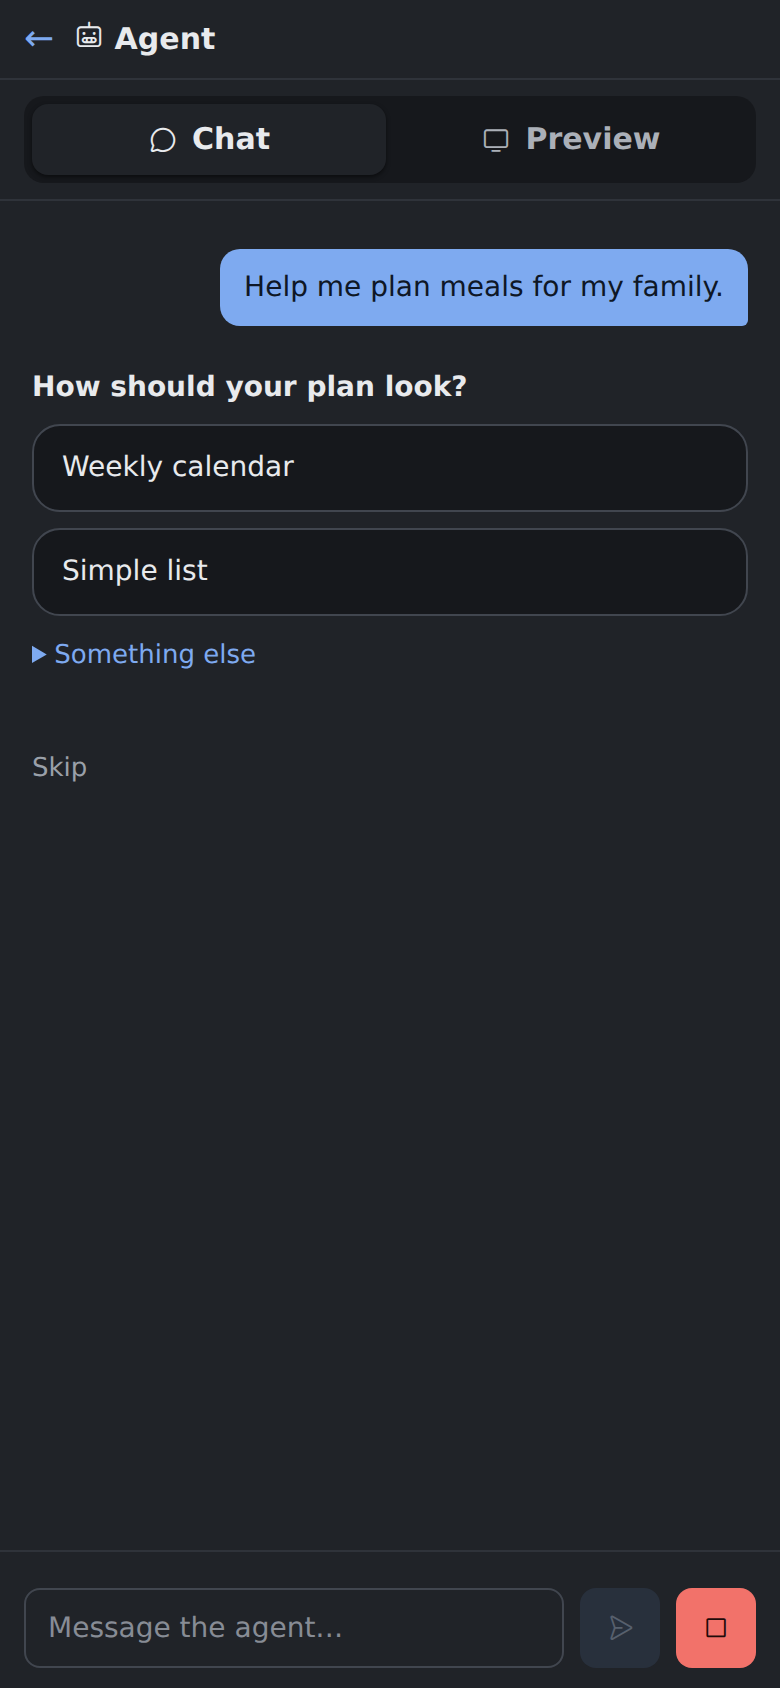
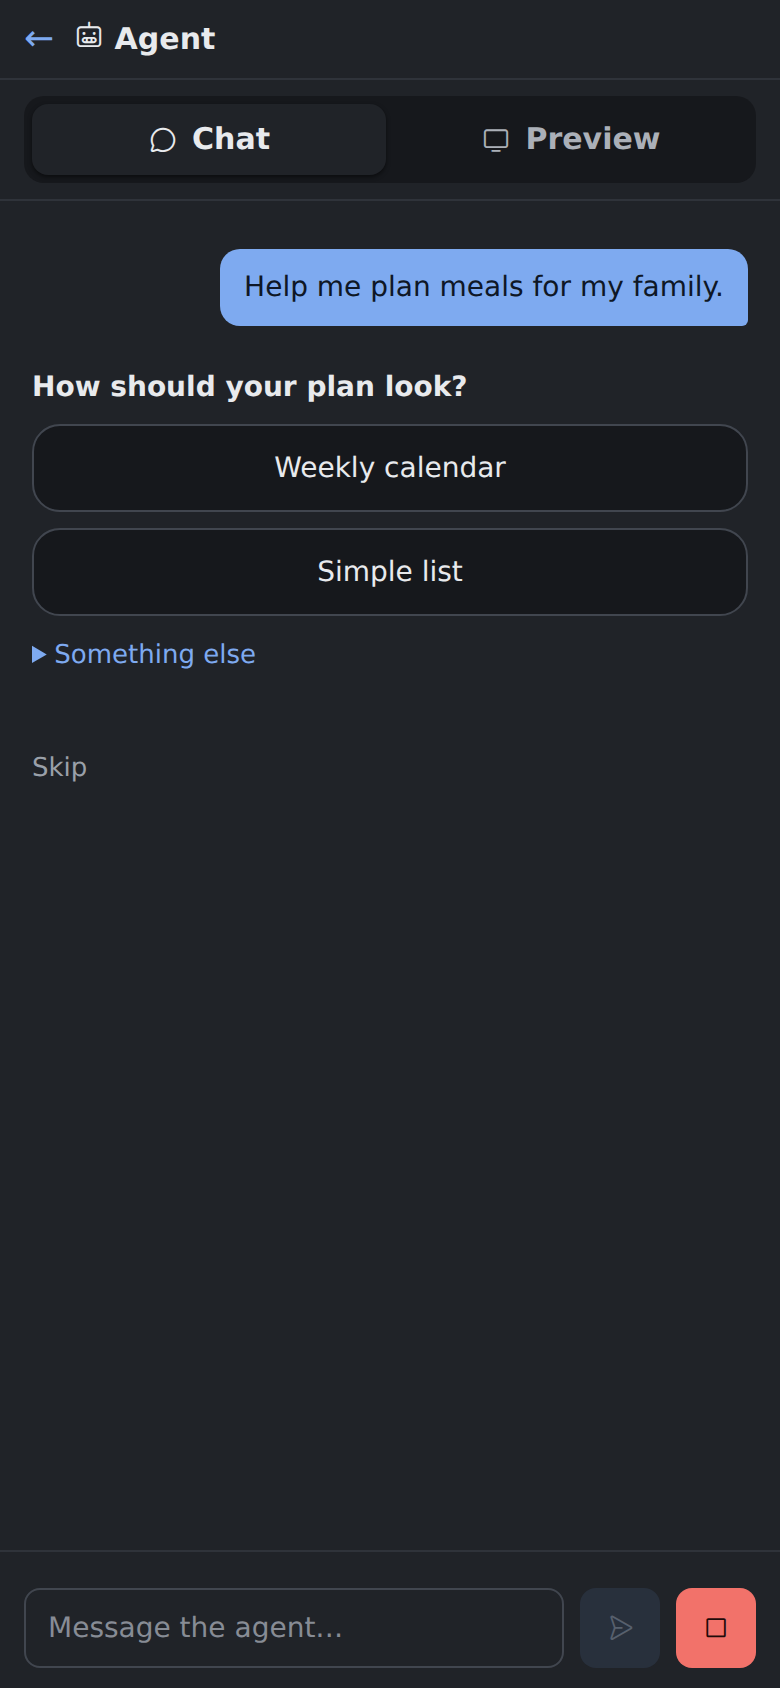
style(agent): center option labels in question bubbles

diff --git a/designs/agent-questions.html b/designs/agent-questions.html
@@ -13,7 +13,7 @@
   .brief { max-width:85%; width:fit-content; margin:0 0 30px auto; padding:9px 13px; border-radius:12px 12px 3px 12px; background:var(--accent-surface,var(--tint)); }
   fieldset { border:0; padding:0; margin:0 0 26px; min-width:0; }
   legend { font-weight:600; padding:0; margin-bottom:8px; }
-  .choice { display:flex; align-items:center; width:100%; padding:10px 14px; margin-bottom:8px; border:1px solid var(--border,var(--line)); border-radius:14px; background:var(--secondary,#f5f6f8); color:inherit; font:inherit; text-align:left; cursor:pointer; min-height:44px; }
+  .choice { display:flex; align-items:center; justify-content:center; width:100%; padding:10px 14px; margin-bottom:8px; border:1px solid var(--border,var(--line)); border-radius:14px; background:var(--secondary,#f5f6f8); color:inherit; font:inherit; text-align:center; cursor:pointer; min-height:44px; }
   @media(prefers-color-scheme:dark) { .choice { background:var(--secondary,#202124); } }
   .choice:hover { border-color:var(--blue); background:var(--accent-surface,var(--tint)); }
   .choice:focus-visible { outline:2px solid var(--blue); outline-offset:2px; }

diff --git a/web/gallery/agent.css b/web/gallery/agent.css
@@ -71,7 +71,7 @@ header h1{font-size:16px;font-weight:600;flex:1}
 .agent-questions fieldset{border:0;min-width:0;margin:0 0 26px}
 .agent-questions legend{font-weight:600;padding:0;margin-bottom:8px;white-space:pre-wrap}
 .question-options{display:grid;gap:8px}
-.question-option{display:flex;align-items:flex-start;width:100%;padding:10px 14px;min-height:44px;border:1px solid var(--color-border);border-radius:14px;background:var(--color-ground);color:inherit;font:inherit;text-align:left;cursor:pointer}
+.question-option{display:flex;align-items:center;justify-content:center;width:100%;padding:10px 14px;min-height:44px;border:1px solid var(--color-border);border-radius:14px;background:var(--color-ground);color:inherit;font:inherit;text-align:center;cursor:pointer}
 .question-option:hover{border-color:var(--brand-blue);background:var(--color-accent-tint)}
 .question-option[aria-pressed="true"]{border-color:var(--brand-blue);background:var(--color-accent-tint);color:var(--color-accent-tint-ink)}
 .question-option:disabled{cursor:default}

diff --git a/.tickets/Exh-br5h.md b/.tickets/Exh-br5h.md
@@ -42,3 +42,7 @@ Removed Continue and the general comments field. Single-choice rows now commit i
 **2026-10-19T22:50:55Z**
 
 Made option rows visibly clickable with rounded bubble borders, a subtle fill, more spacing and 44px minimum height. Hover and selection highlight the full button. Updated the canvas, docs and desktop/mobile screenshots. Validation: question-template and gallery script suites passed; browser checks confirmed light/dark appearance, no mobile overflow and immediate single-click submission.
+
+**2026-10-19T22:54:42Z**
+
+Confirmed the option labels were left-aligned, then centered the label content horizontally and vertically in both the app and canvas. Updated desktop/mobile screenshots. Validation: asset build and syntax checks passed; measured label and button centers in the live browser at desktop and phone sizes, with zero vertical offset and less than 0.01px horizontal offset.
